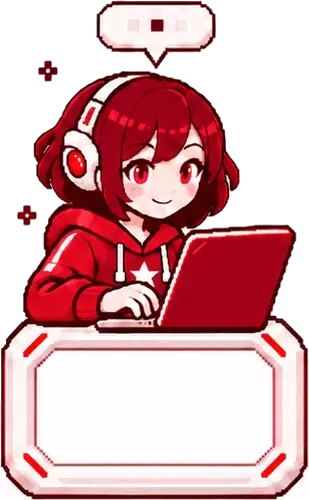
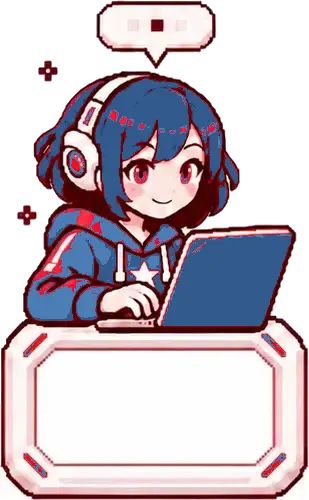
fix: restore frosted titlebox; recolor mentor girl hoodie red->aviation blue

diff --git a/public/mentor.css b/public/mentor.css
@@ -201,17 +201,25 @@
 .mentor-girl-img { display: block; width: 100%; height: 100%; object-fit: contain; image-rendering: pixelated; user-select: none; -webkit-user-drag: none; pointer-events: none; }
 .mentor-titlebox {
   position: absolute;
-  top: 122px;
+  top: 116px;
   left: 50%;
   transform: translateX(-50%);
   z-index: 4;
   display: flex;
   flex-direction: column;
   align-items: center;
-  gap: 3px;
+  gap: 1px;
+  min-width: 214px;
+  padding: 18px 30px 12px;
+  border: 1px solid rgba(255, 255, 255, .6);
+  border-radius: 14px;
+  background: rgba(255, 255, 255, .22);
+  backdrop-filter: blur(10px) saturate(1.15);
+  -webkit-backdrop-filter: blur(10px) saturate(1.15);
+  box-shadow: inset 0 1px 0 rgba(255,255,255,.7), 0 12px 36px rgba(28, 21, 23, .26);
 }
-.mentor-titlebox strong { font-size: 22px; font-weight: 700; color: var(--mentor-ink); white-space: nowrap; letter-spacing: -.02em; }
-.mentor-titlebox span { font-size: 12px; color: var(--mentor-muted); letter-spacing: .02em; white-space: nowrap; }
+.mentor-titlebox strong { font-size: 15px; font-weight: 700; color: var(--mentor-ink); white-space: nowrap; }
+.mentor-titlebox span { font-size: 11px; color: var(--mentor-muted); letter-spacing: .02em; white-space: nowrap; }
 
 .mentor-content { display: flex; flex: 1; flex-direction: column; min-height: 0; width: 100%; }
 .mentor-thread {
